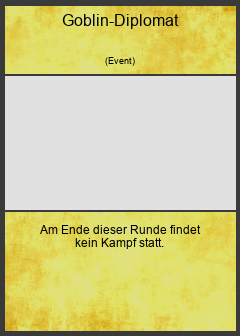
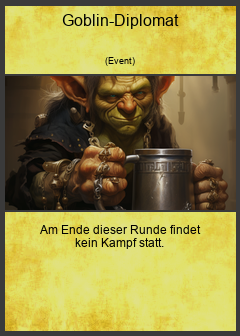
.

diff --git a/creature_fights/card_creation_scripts/card_creation.py b/creature_fights/card_creation_scripts/card_creation.py
@@ -190,7 +190,10 @@ class Card:
         return image
 
     def add_image(self, image):
-        im2 = Image.open('../../assets/empty.png')
+        if "image" in self.data:
+            im2 = Image.open(f'../../assets/{self.data["image"]}.png')
+        else:
+            im2 = Image.open('../../assets/empty.png')
 
         #im2.thumbnail((232, 232), Image.Resampling.LANCZOS)
         #im2 = im2.crop((0, 49, im2.width - 1, im2.height - 49))
@@ -203,7 +206,10 @@ class Card:
         return image
 
     def add_image_cropped(self, image):
-        im2 = Image.open('../../assets/empty.png')
+        if "image" in self.data:
+            im2 = Image.open(f'../../assets/{self.data["image"]}.png')
+        else:
+            im2 = Image.open('../../assets/empty.png')
 
         im2.thumbnail((232, 232), Image.Resampling.LANCZOS)
         im2 = im2.crop((0, 49, im2.width - 1, im2.height - 49))
@@ -319,12 +325,7 @@ if False:
             card = Card(f"creature-{idx}", card_data)
             card.generate_creature()
 
-    with open("../card_data/events", "r") as f:
-        content = f.read()
-        content = json.loads(content)
-        for idx, card_data in enumerate(content):
-            card = Card(f"event-{idx}", card_data)
-            card.generate_event()
+
 
     with open("../card_data/equipment_and_spells", "r") as f:
         content = f.read()
@@ -340,15 +341,21 @@ if False:
             card = Card(f"interrupt-{idx}", card_data)
             card.generate_interrupt()
 
-with open("../card_data/buffs", "r") as f:
+    with open("../card_data/buffs", "r") as f:
+        content = f.read()
+        content = json.loads(content)
+        for idx, card_data in enumerate(content):
+            card = Card(f"buff-{idx}", card_data)
+            card.generate_buff()
+
+
+
+
+
+
+with open("../card_data/events", "r") as f:
     content = f.read()
     content = json.loads(content)
     for idx, card_data in enumerate(content):
-        card = Card(f"buff-{idx}", card_data)
-        card.generate_buff()
-
-
-
-
-
-
+        card = Card(f"event-{idx}", card_data)
+        card.generate_event()

diff --git a/creature_fights/generation_scripts/event_generation.py b/creature_fights/generation_scripts/event_generation.py
@@ -3,7 +3,8 @@ import json
 data = [
 {
 "name": "Goblin-Diplomat",
-"description": "Am Ende dieser Runde findet kein Kampf statt."
+"description": "Am Ende dieser Runde findet kein Kampf statt.",
+"image": "goblin_diplomat"
 },
 {
 "name": "Elfen-Fürst",
@@ -15,7 +16,8 @@ data = [
 },
 {
 "name": "Bettler",
-"description": "Alle mit mindestens einem Silber geben eines ab."
+"description": "Alle mit mindestens einem Silber geben eines ab.",
+"image": "hands_full_of_silver"
 },
 {
 "name": "Instabiles Naturphänomen",
